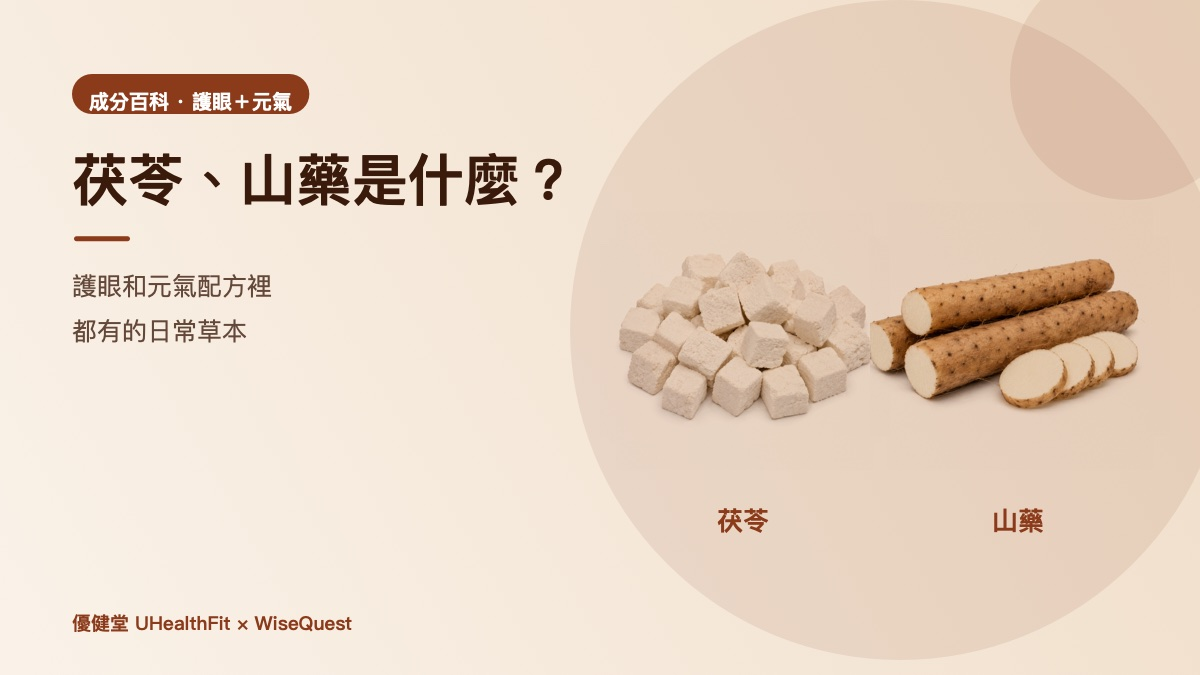
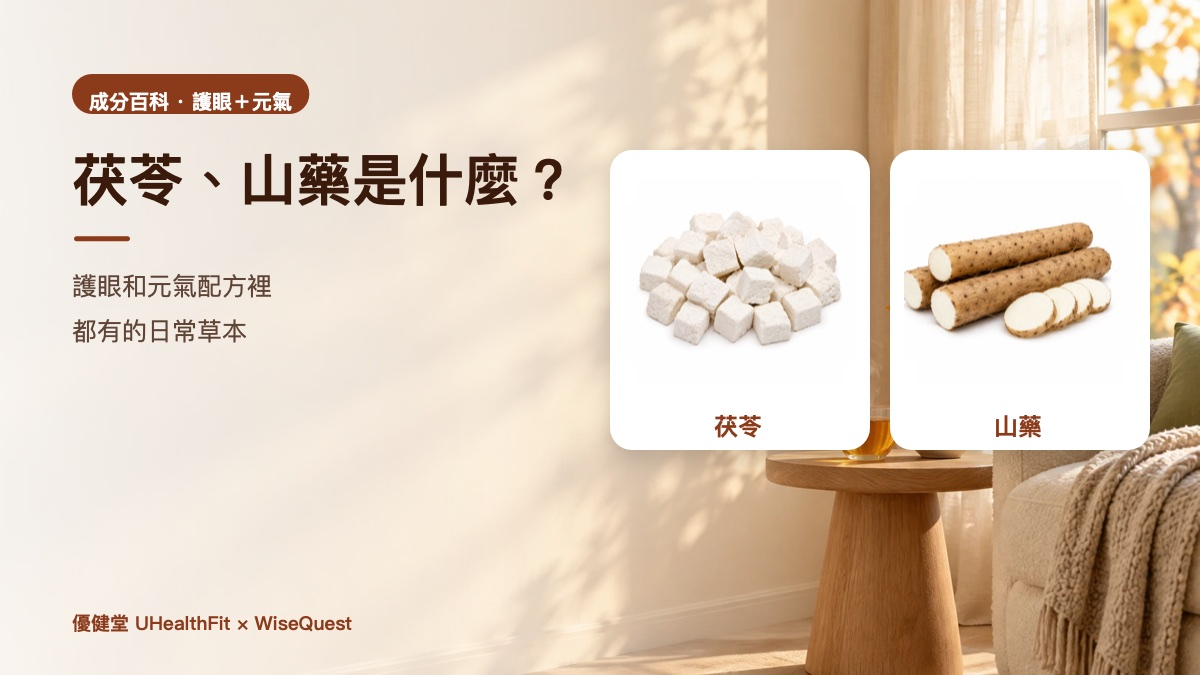
選購指南 14 張文章封面改用設計好的情境背景圖
- 8 張背景（spa、茶桌、秋日窗邊、感恩節餐桌、夜晚臥室、草本、化妝台、綠色書桌）依主題配到 14 篇；
  保留原本的標題、產品與草本實拍、圖解，草本改放白色卡片，圖解加半透明底板
- 封面產生器移進專案：build-src/covers/（covers.swift、fetch.sh、bg/），README 加上重畫方法；
  下載的官網素材放 covers/src/，不進 git

diff --git a/build-src/covers/covers.swift b/build-src/covers/covers.swift
@@ -1,0 +1,226 @@
+// 選購指南文章封面：1200×675 JPEG，輸出到 build-src/src/img/post-<slug>.jpg
+// 背景：build-src/covers/bg/（設計好的情境圖）；產品與草本實拍：先跑 sh build-src/covers/fetch.sh
+// 用法（在 repo 根目錄）：swift build-src/covers/covers.swift [slug]   不加 slug = 全部重畫
+import AppKit
+
+let W: CGFloat = 1200, H: CGFloat = 675
+let HERE = URL(fileURLWithPath: CommandLine.arguments[0]).deletingLastPathComponent().path
+let SRC = "\(HERE)/src", BG = "\(HERE)/bg", OUT = "\(HERE)/../src/img"
+let ONLY = CommandLine.arguments.count > 1 ? CommandLine.arguments[1] : nil
+
+func hex(_ s: String, _ a: CGFloat = 1) -> NSColor {
+    var v: UInt64 = 0; Scanner(string: s.replacingOccurrences(of: "#", with: "")).scanHexInt64(&v)
+    return NSColor(srgbRed: CGFloat((v >> 16) & 255) / 255, green: CGFloat((v >> 8) & 255) / 255, blue: CGFloat(v & 255) / 255, alpha: a)
+}
+func font(_ size: CGFloat, _ weight: String = "Semibold") -> NSFont {
+    NSFont(name: "PingFangTC-\(weight)", size: size) ?? NSFont.systemFont(ofSize: size, weight: weight == "Regular" ? .regular : .semibold)
+}
+
+struct Palette { let accent, ink: NSColor }
+let PAL: [String: Palette] = [
+    "eye": Palette(accent: hex("#1A6B3A"), ink: hex("#08200F")), "skin": Palette(accent: hex("#006B6B"), ink: hex("#062A2A")),
+    "sleep": Palette(accent: hex("#2A3A6B"), ink: hex("#141C38")), "vitality": Palette(accent: hex("#8B3A1A"), ink: hex("#3A1A0A")),
+    "general": Palette(accent: hex("#1A6B3A"), ink: hex("#08200F")), "thanks": Palette(accent: hex("#8E3B16"), ink: hex("#3B1607")),
+]
+
+// ── 繪圖小工具（座標原點在左上）
+func fillRect(_ r: CGRect, _ c: NSColor, radius: CGFloat = 0) { c.setFill(); NSBezierPath(roundedRect: r, xRadius: radius, yRadius: radius).fill() }
+func circle(_ c: CGPoint, _ rad: CGFloat, _ col: NSColor) { col.setFill(); NSBezierPath(ovalIn: CGRect(x: c.x - rad, y: c.y - rad, width: rad * 2, height: rad * 2)).fill() }
+func withShadow(_ alpha: CGFloat = 0.2, blur: CGFloat = 28, dy: CGFloat = -12, _ body: () -> Void) {
+    NSGraphicsContext.saveGraphicsState()
+    let sh = NSShadow(); sh.shadowColor = NSColor(white: 0, alpha: alpha); sh.shadowBlurRadius = blur; sh.shadowOffset = NSSize(width: 0, height: dy); sh.set()
+    body(); NSGraphicsContext.restoreGraphicsState()
+}
+@discardableResult
+func text(_ s: String, _ f: NSFont, _ c: NSColor, _ r: CGRect, align: NSTextAlignment = .left, line: CGFloat = 1.18) -> CGFloat {
+    let p = NSMutableParagraphStyle(); p.alignment = align; p.lineHeightMultiple = line; p.lineBreakMode = .byWordWrapping
+    let a = NSAttributedString(string: s, attributes: [.font: f, .foregroundColor: c, .paragraphStyle: p])
+    let h = a.boundingRect(with: CGSize(width: r.width, height: 2000), options: [.usesLineFragmentOrigin, .usesFontLeading]).height
+    a.draw(with: CGRect(x: r.minX, y: r.minY, width: r.width, height: h + 4), options: [.usesLineFragmentOrigin, .usesFontLeading])
+    return h
+}
+func textWidth(_ s: String, _ f: NSFont) -> CGFloat { NSAttributedString(string: s, attributes: [.font: f]).size().width }
+func label(_ s: String, centerX: CGFloat, y: CGFloat, size: CGFloat = 22, color: NSColor) {
+    let f = font(size); let w = textWidth(s, f)
+    text(s, f, color, CGRect(x: centerX - w / 2 - 2, y: y, width: w + 6, height: size * 1.6))
+}
+func chip(_ s: String, centerX: CGFloat, y: CGFloat, _ pal: Palette, size: CGFloat = 19) {
+    let f = font(size); let w = textWidth(s, f) + 28
+    withShadow(0.12, blur: 12, dy: -4) { fillRect(CGRect(x: centerX - w / 2, y: y, width: w, height: size + 19), .white, radius: (size + 19) / 2) }
+    text(s, f, pal.accent, CGRect(x: centerX - w / 2 + 14, y: y + 7, width: w, height: size + 10))
+}
+func panel(_ r: CGRect, alpha: CGFloat = 0.78) { withShadow(0.14, blur: 30, dy: -10) { fillRect(r, NSColor(white: 1, alpha: alpha), radius: 24) } }
+func load(_ path: String) -> NSImage {
+    guard let i = NSImage(contentsOfFile: path) else { fatalError("缺少素材 \(path)；請先執行 sh build-src/covers/fetch.sh") }
+    return i
+}
+// 等比縮放放進框內（不裁切），底部對齊，可加陰影
+@discardableResult
+func imageFit(_ name: String, _ r: CGRect, shadow: Bool = true, anchorBottom: Bool = true) -> CGRect {
+    let img = load("\(SRC)/\(name).png"); let s = min(r.width / img.size.width, r.height / img.size.height)
+    let w = img.size.width * s, h = img.size.height * s
+    let dst = CGRect(x: r.midX - w / 2, y: anchorBottom ? r.maxY - h : r.midY - h / 2, width: w, height: h)
+    let draw = { img.draw(in: dst, from: .zero, operation: .sourceOver, fraction: 1, respectFlipped: true, hints: [.interpolation: NSImageInterpolation.high]) }
+    if shadow { withShadow { draw() } } else { draw() }
+    return dst
+}
+// 草本實拍是白底：放在白色卡片上，下方標名稱
+func herbCard(_ name: String, _ title: String, _ r: CGRect, _ pal: Palette) {
+    withShadow(0.16, blur: 26, dy: -10) { fillRect(r, .white, radius: 22) }
+    imageFit(name, CGRect(x: r.minX + 14, y: r.minY + 14, width: r.width - 28, height: r.height - 64), shadow: false, anchorBottom: false)
+    label(title, centerX: r.midX, y: r.maxY - 46, size: 24, color: pal.accent)
+}
+
+// ── 版型：背景照片＋左側文字
+struct Cover { let slug, pal, bg, pillText, title, sub: String; let titleSize, textWidth: CGFloat; var dark = false; let draw: (Palette) -> Void }
+
+func base(_ c: Cover) {
+    let pal = PAL[c.pal]!
+    load("\(BG)/\(c.bg).webp").draw(in: CGRect(x: 0, y: 0, width: W, height: H), from: .zero, operation: .copy, fraction: 1, respectFlipped: true, hints: [.interpolation: NSImageInterpolation.high])
+    // 左側柔光（深色背景用暗色），讓標題清楚
+    let wash = c.dark ? [NSColor(white: 0, alpha: 0.5), NSColor(white: 0, alpha: 0.25), NSColor(white: 0, alpha: 0)]
+                      : [NSColor(white: 1, alpha: 0.82), NSColor(white: 1, alpha: 0.5), NSColor(white: 1, alpha: 0)]
+    NSGradient(colors: wash, atLocations: [0, 0.42, 0.68], colorSpace: .sRGB)!.draw(in: CGRect(x: 0, y: 0, width: W, height: H), angle: 0)
+    let ink = c.dark ? NSColor.white : pal.ink
+    let f = font(20); let pw = textWidth(c.pillText, f) + 34
+    fillRect(CGRect(x: 72, y: 74, width: pw, height: 40), c.dark ? hex("#C9A15A") : pal.accent, radius: 20)
+    text(c.pillText, f, .white, CGRect(x: 89, y: 82, width: pw, height: 30))
+    let th = text(c.title, font(c.titleSize), ink, CGRect(x: 72, y: 134, width: c.textWidth, height: 400), line: 1.08)
+    fillRect(CGRect(x: 74, y: 134 + th + 18, width: 56, height: 5), c.dark ? hex("#C9A15A") : pal.accent, radius: 2.5)
+    text(c.sub, font(25, "Regular"), ink.withAlphaComponent(c.dark ? 0.88 : 0.8), CGRect(x: 72, y: 134 + th + 40, width: c.textWidth, height: 200), line: 1.25)
+    text("優健堂 UHealthFit × WiseQuest", font(19), c.dark ? hex("#E8C98A") : pal.accent, CGRect(x: 72, y: H - 70, width: 500, height: 30))
+    c.draw(pal)
+}
+
+let covers: [Cover] = [
+    Cover(slug: "eye-cream-buying-guide", pal: "eye", bg: "vanity-pink", pillText: "選購指南 · 護眼保健", title: "眼霜怎麼選？", sub: "白天的眼周保養：\n保濕、舒緩，擦了就能走", titleSize: 66, textWidth: 520) { pal in
+        imageFit("products_herbal-soothing-repair-eye-cream_eye-cream-product-shot-wide", CGRect(x: 600, y: 95, width: 560, height: 470))
+        for (i, s) in ["保濕", "舒緩", "米粒大小", "開封 6 個月內"].enumerated() { chip(s, centerX: CGFloat([672, 762, 872, 1028][i]), y: 590, pal) }
+    },
+    Cover(slug: "eye-patch-which-pack-to-buy", pal: "eye", bg: "eye-spa", pillText: "選購指南 · 護眼保健", title: "冷敷眼貼買哪一盒？", sub: "從兩晚體驗裝到 9 盒，每晚約 $2.6–$3", titleSize: 54, textWidth: 1000) { pal in
+        panel(CGRect(x: 195, y: 318, width: 910, height: 270))
+        let items: [(String, String, String, CGFloat)] = [("products_eye-patches_2-day-trial", "體驗裝", "2 晚", 100), ("products_eye-patches_eye-patches-box-front", "1 盒", "10 晚", 120),
+                                                       ("products_eye-patches_3-boxes", "3 盒", "30 晚", 140), ("products_eye-patches_six-boxes", "6 盒", "60 晚", 155), ("products_eye-patches_9-boxes", "9 盒", "90 晚", 170)]
+        for (i, it) in items.enumerated() {
+            let cx = 300 + CGFloat(i) * 175
+            imageFit(it.0, CGRect(x: cx - 80, y: 500 - it.3, width: 160, height: it.3))
+            label(it.1, centerX: cx, y: 510, size: 22, color: pal.ink)
+            label(it.2, centerX: cx, y: 542, size: 19, color: pal.accent)
+        }
+    },
+    Cover(slug: "contact-lens-eye-drops-eye-patch-guide", pal: "eye", bg: "eye-spa", pillText: "使用教學 · 護眼保健", title: "隱形眼鏡、眼藥水、眼貼的睡前順序", sub: "五個步驟，一張圖看懂", titleSize: 50, textWidth: 1000) { pal in
+        panel(CGRect(x: 60, y: 325, width: 1080, height: 262))
+        let steps = [("👓", "洗手、\n取下鏡片"), ("🫧", "卸妝、\n洗臉"), ("💧", "需要的話\n點眼藥水"), ("⏱", "等約\n30 分鐘"), ("🌙", "貼上\n冷敷眼貼")]
+        for (i, s) in steps.enumerated() {
+            let cx = 160 + CGFloat(i) * 220, cy: CGFloat = 410
+            if i < 4 { fillRect(CGRect(x: cx + 62, y: cy - 2, width: 96, height: 4), pal.accent.withAlphaComponent(0.35), radius: 2) }
+            withShadow(0.1, blur: 14, dy: -4) { circle(CGPoint(x: cx, y: cy), 62, .white) }
+            text(s.0, NSFont(name: "Apple Color Emoji", size: 50) ?? font(50), .black, CGRect(x: cx - 34, y: cy - 36, width: 80, height: 70))
+            circle(CGPoint(x: cx - 46, y: cy - 46), 18, pal.accent)
+            label("\(i + 1)", centerX: cx - 46, y: cy - 60, size: 20, color: .white)
+            text(s.1, font(21), pal.ink, CGRect(x: cx - 80, y: cy + 76, width: 160, height: 70), align: .center)
+        }
+    },
+    Cover(slug: "herbal-skincare-which-cream-and-order", pal: "skin", bg: "vanity-pink", pillText: "選購指南 · 肌膚健康", title: "修護霜、淨顏霜、\n精華液怎麼選？", sub: "依膚況挑選，\n擦的順序也一次看懂", titleSize: 54, textWidth: 500) { pal in
+        let items = [("products_herbal-soothing-repair-cream_herbal-soothing-repair-cream-jar-front", "乾燥・敏感"),
+                     ("products_herbal-clarifying-cream_herbal-clarifying-cream-jar-front", "出油・易長痘"),
+                     ("products_herbal-lifting-revitalizing-serum_herbal-lifting-revitalizing-serum-bottle-front", "疲倦・想要光澤")]
+        for (i, it) in items.enumerated() {
+            let cx = 680 + CGFloat(i) * 175
+            imageFit(it.0, CGRect(x: cx - 82, y: 180, width: 164, height: 330))
+            chip(it.1, centerX: cx, y: 532, pal)
+        }
+    },
+    Cover(slug: "herbal-supplement-safety-checklist", pal: "general", bg: "green-desk", pillText: "安心清單 · 日常保健", title: "吃草本保健品前，\n先確認這 6 件事", sub: "服藥、孕期、手術前；\n看醫師時，帶上這張清單", titleSize: 54, textWidth: 520) { pal in
+        let card = CGRect(x: 640, y: 70, width: 470, height: 535)
+        withShadow(0.18, blur: 30, dy: -12) { fillRect(card, .white, radius: 22) }
+        fillRect(CGRect(x: card.minX, y: card.minY, width: card.width, height: 76), pal.accent, radius: 22)
+        fillRect(CGRect(x: card.minX, y: card.minY + 50, width: card.width, height: 26), pal.accent)
+        text("服用前確認清單", font(26), .white, CGRect(x: card.minX + 30, y: card.minY + 20, width: 400, height: 40))
+        for (i, r) in ["正在吃哪些藥", "懷孕、哺乳或準備懷孕", "近期要動手術", "年齡與用藥數量", "已在吃的其他保健品", "過敏史與體質"].enumerated() {
+            let y = card.minY + 104 + CGFloat(i) * 70
+            pal.accent.setStroke(); let b = NSBezierPath(roundedRect: CGRect(x: card.minX + 32, y: y, width: 30, height: 30), xRadius: 7, yRadius: 7); b.lineWidth = 3; b.stroke()
+            text(r, font(23, "Regular"), pal.ink, CGRect(x: card.minX + 80, y: y - 2, width: 360, height: 40))
+            if i < 5 { fillRect(CGRect(x: card.minX + 32, y: y + 50, width: card.width - 64, height: 1), hex("#E2E6D3")) }
+        }
+    },
+    Cover(slug: "suanzaoren-calming-herbs-explained", pal: "sleep", bg: "bedroom-night", pillText: "成分百科 · 睡眠健康", title: "酸棗仁是什麼？", sub: "七味安神草本\n與「君臣佐使」一次看懂", titleSize: 62, textWidth: 520, dark: true) { pal in
+        imageFit("products_calmoon_calmoon-ingredients-collage", CGRect(x: 560, y: 300, width: 360, height: 345))
+        imageFit("products_calmoon_calmoon-bottle-front", CGRect(x: 880, y: 395, width: 230, height: 245))
+    },
+    Cover(slug: "cassia-chrysanthemum-goji-tea-or-capsule", pal: "eye", bg: "autumn-tea-window", pillText: "成分百科 · 護眼保健", title: "決明子、菊花、枸杞", sub: "泡茶和吃膠囊，怎麼選？", titleSize: 54, textWidth: 540) { pal in
+        herbCard("ingredients_chrysanthemum", "菊花", CGRect(x: 600, y: 120, width: 200, height: 220), pal)
+        herbCard("ingredients_goji", "枸杞", CGRect(x: 600, y: 360, width: 200, height: 220), pal)
+        label("泡茶", centerX: 700, y: 590, size: 24, color: pal.ink)
+        withShadow(0.18, blur: 14, dy: -4) { circle(CGPoint(x: 870, y: 350), 40, pal.accent) }
+        label("VS", centerX: 870, y: 333, size: 24, color: .white)
+        imageFit("products_lumiview_lumiview-bottle-front", CGRect(x: 925, y: 190, width: 240, height: 380))
+        label("膠囊", centerX: 1045, y: 590, size: 24, color: pal.ink)
+    },
+    Cover(slug: "dendrobium-shihu-eye-cream-herb", pal: "eye", bg: "herbs-wood", pillText: "成分百科 · 護眼保健", title: "石斛是什麼？", sub: "眼霜裡的東方草本", titleSize: 66, textWidth: 520) { pal in
+        herbCard("ingredients_dendrobium", "石斛", CGRect(x: 610, y: 90, width: 330, height: 380), pal)
+        imageFit("products_herbal-soothing-repair-eye-cream_herbal-soothing-repair-eye-cream-jar-front", CGRect(x: 880, y: 350, width: 260, height: 270))
+    },
+    Cover(slug: "astragalus-huangqi-guide", pal: "vitality", bg: "herbs-wood", pillText: "成分百科 · 元氣活力", title: "黃芪是什麼？", sub: "日常調養常見草本入門", titleSize: 66, textWidth: 520) { pal in
+        herbCard("ingredients_astragalus", "黃芪", CGRect(x: 610, y: 110, width: 340, height: 340), pal)
+        imageFit("products_enerbalance_enerbalance-bottle-front", CGRect(x: 880, y: 300, width: 270, height: 330))
+    },
+    Cover(slug: "american-ginseng-cold-constitution", pal: "vitality", bg: "table-tea-notebook", pillText: "成分百科 · 元氣活力", title: "體質偏寒，可以吃西洋參嗎？", sub: "溫涼搭配的複方思路", titleSize: 54, textWidth: 1000) { pal in
+        panel(CGRect(x: 110, y: 314, width: 980, height: 272), alpha: 1)
+        let bar = CGRect(x: 150, y: 500, width: 900, height: 22)
+        NSGradient(colors: [hex("#4F7FB8"), hex("#8FB7A0"), hex("#E0B060"), hex("#C2502A")])!.draw(in: NSBezierPath(roundedRect: bar, xRadius: 11, yRadius: 11), angle: 0)
+        label("偏涼", centerX: bar.minX + 14, y: 530, size: 19, color: hex("#4F7FB8")); label("偏溫", centerX: bar.maxX - 14, y: 530, size: 19, color: hex("#C2502A"))
+        for h in [("ingredients_panax-ginseng", "西洋參・偏涼", CGFloat(0.18)), ("ingredients_chinese-yam", "山藥・平", 0.5), ("ingredients_astragalus", "黃芪・溫", 0.82)] {
+            let cx = bar.minX + bar.width * h.2
+            imageFit(h.0, CGRect(x: cx - 95, y: 326, width: 190, height: 120), shadow: false, anchorBottom: false)
+            circle(CGPoint(x: cx, y: bar.midY), 15, .white); circle(CGPoint(x: cx, y: bar.midY), 9, pal.accent)
+            label(h.1, centerX: cx, y: 454, size: 22, color: pal.ink)
+        }
+    },
+    Cover(slug: "poria-chinese-yam-everyday-herbs", pal: "vitality", bg: "autumn-tea-window", pillText: "成分百科 · 護眼＋元氣", title: "茯苓、山藥是什麼？", sub: "護眼和元氣配方裡\n都有的日常草本", titleSize: 56, textWidth: 520) { pal in
+        herbCard("ingredients_poria", "茯苓", CGRect(x: 610, y: 150, width: 260, height: 300), pal)
+        herbCard("ingredients_chinese-yam", "山藥", CGRect(x: 890, y: 150, width: 260, height: 300), pal)
+    },
+    Cover(slug: "thanksgiving-gift-for-parents-herbal", pal: "thanks", bg: "thanksgiving-table", pillText: "感恩節 · 送禮指南", title: "感恩節送爸媽什麼？", sub: "依日常需求，\n挑一份草本禮物", titleSize: 56, textWidth: 520) { pal in
+        for it in [("products_eye-patches_eye-patches-box-front", CGRect(x: 735, y: 345, width: 100, height: 165)),
+                   ("products_dentaforte_dentaforte-bottle-front", CGRect(x: 800, y: 362, width: 150, height: 150)),
+                   ("products_enerbalance_enerbalance-bottle-front", CGRect(x: 875, y: 300, width: 205, height: 212)),
+                   ("products_calmoon_calmoon-bottle-front", CGRect(x: 985, y: 362, width: 150, height: 150)),
+                   ("products_herbal-soothing-repair-cream_herbal-soothing-repair-cream-jar-front", CGRect(x: 1110, y: 425, width: 88, height: 88))] { imageFit(it.0, it.1) }
+    },
+    Cover(slug: "thanksgiving-parents-supplement-schedule", pal: "thanks", bg: "table-tea-notebook", pillText: "感恩節 · 家庭保健", title: "幫爸媽排一張\n保健品時間表", sub: "回家這一趟，\n30 分鐘整理三步驟", titleSize: 56, textWidth: 480) { pal in
+        let card = CGRect(x: 600, y: 64, width: 545, height: 545)
+        withShadow(0.2, blur: 30, dy: -12) { fillRect(card, hex("#FFFDF8"), radius: 20) }
+        text("爸媽的保健品時間表", font(26), pal.accent, CGRect(x: card.minX + 28, y: card.minY + 24, width: 480, height: 40))
+        let colX: [CGFloat] = [258, 330, 402, 474]
+        for (i, c) in ["早餐", "午餐", "晚餐", "睡前"].enumerated() { label(c, centerX: card.minX + colX[i], y: card.minY + 86, size: 19, color: pal.ink.withAlphaComponent(0.7)) }
+        let rows: [(String, [Bool])] = [("明目膠囊", [true, false, true, false]), ("固齒膠囊", [true, false, true, false]), ("黑膏滋膠囊", [true, false, true, false]),
+                                       ("潤暢膠囊", [true, false, true, false]), ("安睡膠囊", [false, true, false, true])]
+        for (r, row) in rows.enumerated() {
+            let y = card.minY + 140 + CGFloat(r) * 76
+            fillRect(CGRect(x: card.minX + 24, y: y - 12, width: card.width - 48, height: 1), hex("#EAD9C2"))
+            text(row.0, font(22, "Regular"), pal.ink, CGRect(x: card.minX + 28, y: y + 10, width: 200, height: 34))
+            for (i, on) in row.1.enumerated() {
+                let c = CGPoint(x: card.minX + colX[i], y: y + 26)
+                if on { circle(c, 15, pal.accent); label("3", centerX: c.x, y: c.y - 14, size: 17, color: .white) } else { circle(c, 5, hex("#D9C4A6")) }
+            }
+        }
+        text("每格 3 粒・隨餐", font(17, "Regular"), pal.ink.withAlphaComponent(0.6), CGRect(x: card.minX + 28, y: card.maxY - 40, width: 400, height: 28))
+    },
+    Cover(slug: "thanksgiving-feast-bloating-care", pal: "thanks", bg: "thanksgiving-table", pillText: "感恩節 · 腸胃舒暢", title: "感恩節大餐\n吃太飽？", sub: "節日飽脹感的日常照顧：\n慢慢吃、飯後走一走", titleSize: 60, textWidth: 520) { pal in
+        imageFit("products_herbalflow_plan-dietary-fiber", CGRect(x: 690, y: 215, width: 310, height: 310))
+        imageFit("products_herbalflow_herbalflow-bottle-front", CGRect(x: 920, y: 320, width: 230, height: 300))
+    },
+]
+
+for c in covers where ONLY == nil || ONLY == c.slug {
+    let rep = NSBitmapImageRep(bitmapDataPlanes: nil, pixelsWide: Int(W), pixelsHigh: Int(H), bitsPerSample: 8, samplesPerPixel: 4, hasAlpha: true, isPlanar: false, colorSpaceName: .deviceRGB, bytesPerRow: 0, bitsPerPixel: 0)!
+    let cg = NSGraphicsContext(bitmapImageRep: rep)!.cgContext
+    cg.translateBy(x: 0, y: H); cg.scaleBy(x: 1, y: -1)
+    NSGraphicsContext.current = NSGraphicsContext(cgContext: cg, flipped: true)
+    base(c)
+    NSGraphicsContext.current = nil
+    let jpg = rep.representation(using: .jpeg, properties: [.compressionFactor: 0.84])!
+    try! jpg.write(to: URL(fileURLWithPath: "\(OUT)/post-\(c.slug).jpg"))
+    print("✓ post-\(c.slug).jpg \(jpg.count / 1024) KB")
+}

diff --git a/build-src/build.py b/build-src/build.py
@@ -1574,7 +1574,7 @@ def build_misc():
 - css/style.css、js/main.js 共用 ｜ sitemap.xml、robots.txt
 
 ## 部署
-Cloudflare Pages：連結 GitHub repo 的 main 分支，push 後自動部署。正式網址 https://us.uhealthfit.com/（自訂網域，DNS 在 GoDaddy：CNAME us → uhealthfit-zh.pages.dev）；Cloudflare 預設網址 https://uhealthfit-zh.pages.dev/。更換網域時改 build-src/build.py 的 SITE_URL 重建。Cloudflare 會把 .html 網址 308 轉址成乾淨網址（/about、/products/calmoon、/blog/）；站內連結、標準網址、sitemap 與結構化資料都輸出乾淨網址（build.py 的 clean_links／page_url），不存在的網址由 404.html 回應 404。sitemap 的 lastmod 來自 build-src/lastmod.json（內容雜湊有變才更新日期，請一起 commit）。GitHub Pages 已不再使用（ntddigital.github.io 上的舊副本仍帶著追蹤碼，請下架）。\n\n## 怎麼改網站\n不要直接改根目錄的 HTML（34 頁會不同步）。改 `build-src/` 裡的資料與模板，然後在 repo 根目錄執行 `python3 build-src/build.py`，再 commit & push：\n- 產品、系列、FAQ、測驗題目：`build-src/build.py` 上半部的 SERIES / PRODUCTS / QUIZ / FAQS\n- 導購文章：`build-src/posts/<slug>.html`（第一行 JSON meta → `---END-META---` → HTML 片段）；新增文章請加入 build.py 的 POST_ORDER\n- 樣式／互動：`build-src/src/style.css`、`build-src/src/main.js`\n- 文案合規規範：`build-src/BRIEF.md`
+Cloudflare Pages：連結 GitHub repo 的 main 分支，push 後自動部署。正式網址 https://us.uhealthfit.com/（自訂網域，DNS 在 GoDaddy：CNAME us → uhealthfit-zh.pages.dev）；Cloudflare 預設網址 https://uhealthfit-zh.pages.dev/。更換網域時改 build-src/build.py 的 SITE_URL 重建。Cloudflare 會把 .html 網址 308 轉址成乾淨網址（/about、/products/calmoon、/blog/）；站內連結、標準網址、sitemap 與結構化資料都輸出乾淨網址（build.py 的 clean_links／page_url），不存在的網址由 404.html 回應 404。sitemap 的 lastmod 來自 build-src/lastmod.json（內容雜湊有變才更新日期，請一起 commit）。GitHub Pages 已不再使用（ntddigital.github.io 上的舊副本仍帶著追蹤碼，請下架）。\n\n## 怎麼改網站\n不要直接改根目錄的 HTML（34 頁會不同步）。改 `build-src/` 裡的資料與模板，然後在 repo 根目錄執行 `python3 build-src/build.py`，再 commit & push：\n- 產品、系列、FAQ、測驗題目：`build-src/build.py` 上半部的 SERIES / PRODUCTS / QUIZ / FAQS\n- 導購文章：`build-src/posts/<slug>.html`（第一行 JSON meta → `---END-META---` → HTML 片段）；新增文章請加入 build.py 的 POST_ORDER\n- 樣式／互動：`build-src/src/style.css`、`build-src/src/main.js`\n- 文案合規規範：`build-src/BRIEF.md`\n- 選購指南文章封面：`build-src/covers/`（背景圖在 bg/；先 `sh build-src/covers/fetch.sh` 下載官網產品與草本實拍，再 `swift build-src/covers/covers.swift [slug]` 重畫，輸出到 build-src/src/img/post-<slug>.jpg）
 - 本機預覽：`python3 build-src/serve.py`（模擬 Cloudflare 的乾淨網址與 404；.claude/launch.json 的 static-site 也是用它）。本機不會載入 GTM／GA4／Meta，追蹤碼只在 us.uhealthfit.com 啟用
 - Logo 與圖片：導覽列用 uhealthfit.com 的優健堂 SVG（LOGO）、頁尾用 zh.uhealthfit.com 商店頁首的 UHealthFit 白色字標（`build-src/src/img/`）；六大系列情境照與產品實拍取自 zh.uhealthfit.com（Shopify CDN，見 build.py 的 SHOP_CDN／shop_img，`&width=` 可調尺寸），其餘產品圖取自 uhealthfit.com
 上線前：
